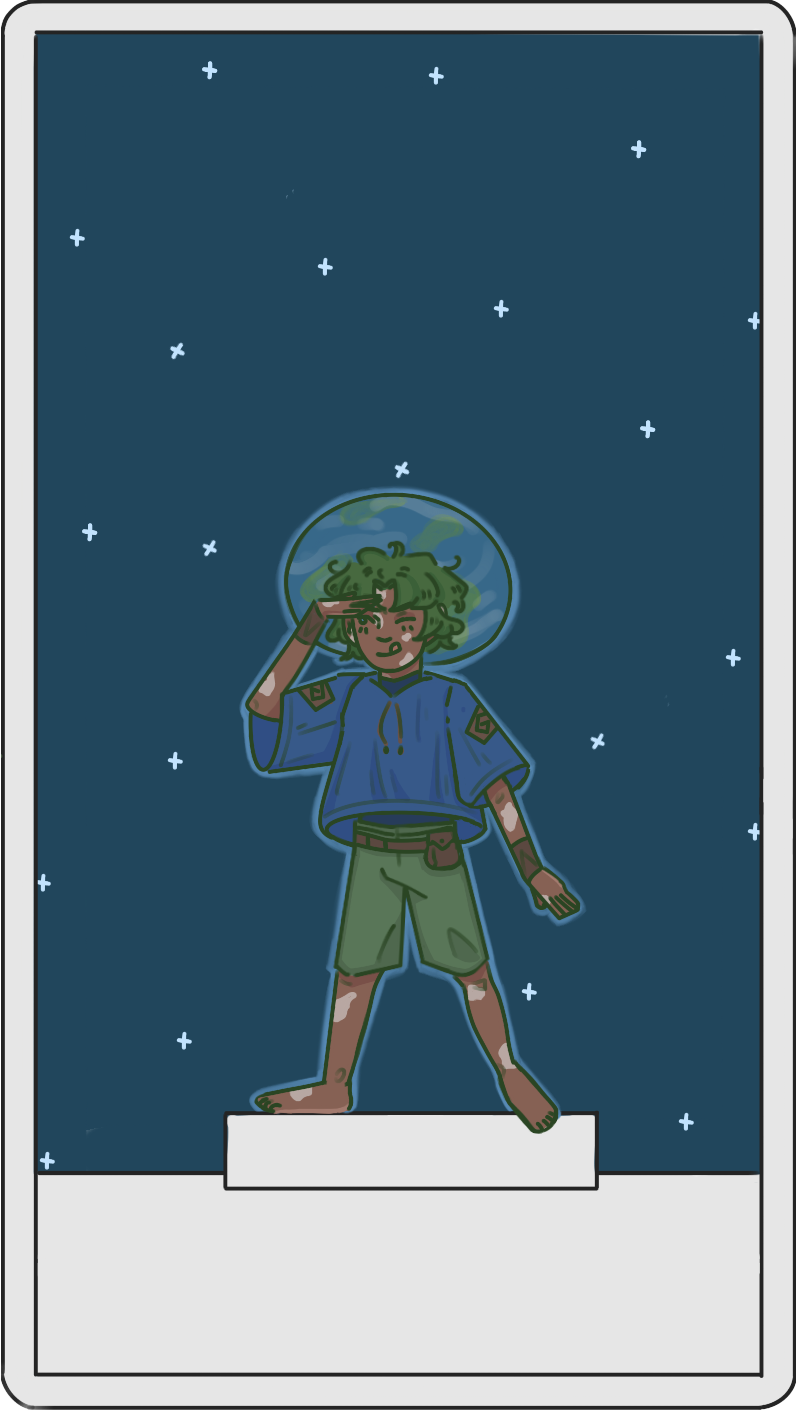
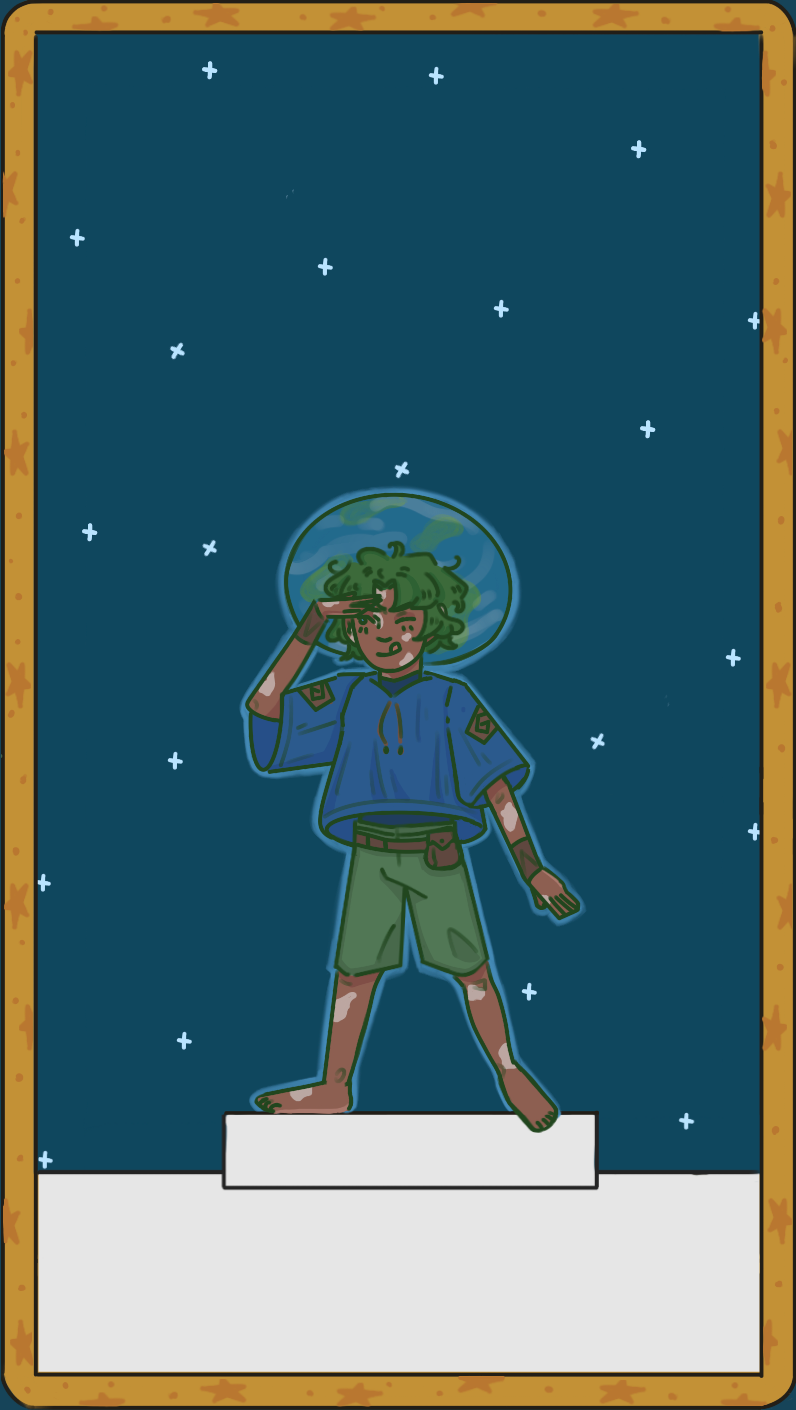
cards updated

Changed region(s): [[0.0, 0.0, 1.0, 1.0], [0.2714, 0.7801, 0.3015, 0.8426], [0.6633, 0.7801, 0.6935, 0.8113]]

diff --git a/planetaire/src/index.css b/planetaire/src/index.css
@@ -11,6 +11,7 @@ body {
   background-color: var(--sky-blue);
   background-image: url("./assets/support_material/star.png");
   background-repeat: repeat;
+  background-size: cover;
   background-blend-mode: soft-light;
   animation: moveBackground 50s infinite;
 }

diff --git a/planetaire/src/components/card/card.css b/planetaire/src/components/card/card.css
@@ -31,5 +31,6 @@
 
 .card-image {
     width: 20vmax;
+    border-radius: 10px;
 }
 
